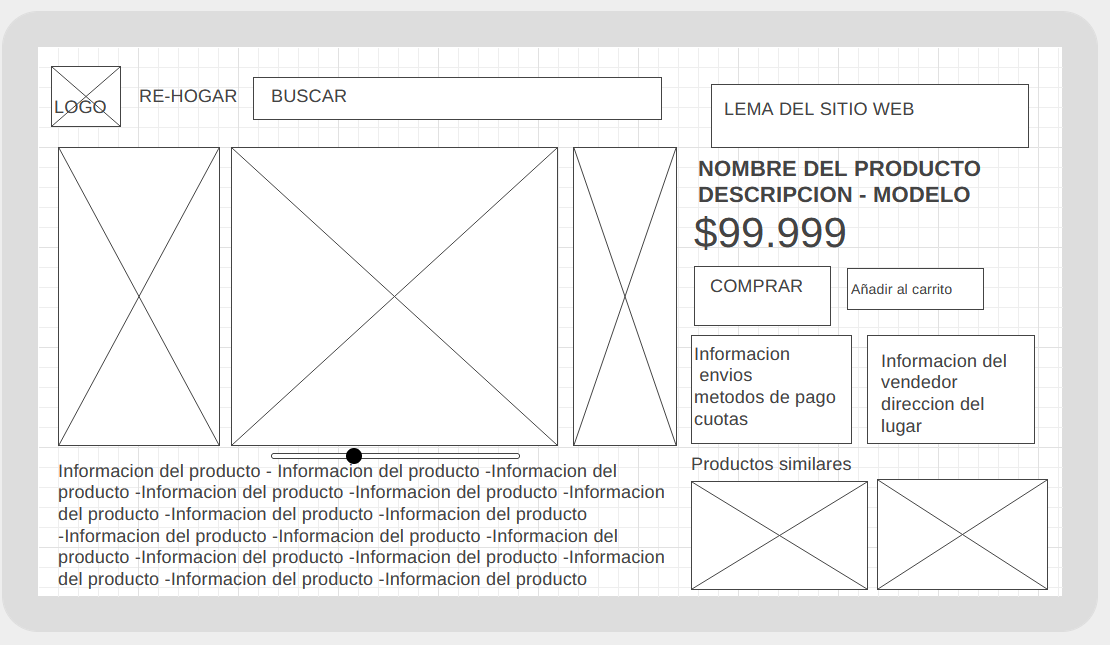
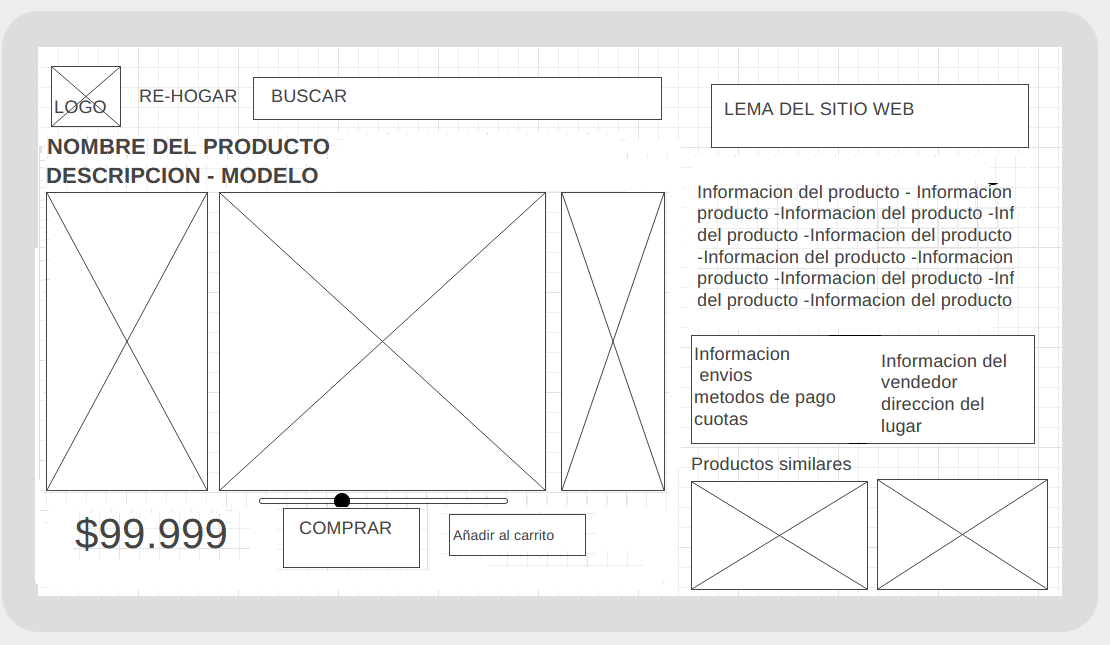
Subo todos los cambios en productDetail html y css faltan realizar cambios

diff --git a/views/productDetail.html b/views/productDetail.html
@@ -1,5 +1,6 @@
 <!DOCTYPE html>
 <html lang="en">
+
 <head>
     <meta charset="UTF-8">
     <meta name="viewport" content="width=device-width, initial-scale=1.0">
@@ -8,9 +9,75 @@
     <script src="https://kit.fontawesome.com/e3720ac348.js" crossorigin="anonymous"></script>
 </head>
 
-<body>
-    <main>
-        
+<body class="product_detail_body">
+    <header>
+        <div class="test_header">
+            <img src="/img/logo_rehogar.png">
+            TEST DE HEADER
+        </div>
+    </header>
+    <main class="productDetail_main">
+        <div class="product">
+            <div class="product_name_model">
+                <h1>Nombre del producto</h1>
+                <h2>Modelo</h2>
+            </div>
+            <div class="product_carrousel_box">
+                <div class="product_carrousel_img">
+                    <img src="/img/productDetail_img/img_product_1.jpg">
+                </div>
+                <div class="product_carrousel_img">
+                    <img src="/img/productDetail_img/img_product_2.jpg">
+                </div>
+                <div class="product_carrousel_img">
+                    <img src="/img/productDetail_img/img_product_3.jpg">
+                </div>
+            </div>
+            <div class="product_precio_buttons_box">
+                <div class="product_precio">
+                    <h1>$99.999</h1>
+                </div>
+                <div class="product_buttons">
+                    <a href="/"><input type="button" value="Comprar"></a>
+                    <a href="/"><input type="button" value="Enviar"></a>
+                </div>
+            </div>
+            <div class="box_flex">
+                <div class="box1">
+                    <div class="product_description">
+                        <p>
+                            Lorem ipsum dolor sit amet consectetur adipisicing elit. Eius fugiat quae similique odit eos
+                            architecto saepe officia? Facilis amet quae, id fuga itaque alias nulla natus in sit
+                            aspernatur
+                            veritatis!
+                        </p>
+                    </div>
+                    <div class="product_simil">
+                        <h2>Productos similares</h2>
+                        <div class="product_simil_box">
+                            <div>
+                                <img src="/img/productDetail_img/img_relation_1.jpg">
+                            </div>
+                            <div>
+                                <img src="/img/productDetail_img/img_relation_2.jpg">
+                            </div>
+
+                        </div>
+                    </div>
+                </div>
+                <div class="vendedor_info">
+                    <i class="fa-solid fa-truck"></i>
+                    <p>Información de envios </p>
+                    <i class="fa-solid fa-credit-card"></i>
+                    <p>Metodos de pago </p>
+                    <i class="fa-solid fa-id-card"></i>
+                    <p>Información del vendedor </p>
+                    <i class="fa-solid fa-location-dot"></i>
+                    <p>Dirección de entrega </p>
+                </div>
+            </div>
+
+        </div>
     </main>
 </body>
 

diff --git a/public/css/productDetail.css b/public/css/productDetail.css
@@ -1,3 +1,98 @@
-*{
-    
+/*borrar*/
+.test_header{
+    height: 100px;
+}
+.test_header img{
+    height: 100%;
+}
+/*Ahora si*/
+
+/*Textos*/
+.productDetail_main h1, .productDetail_main h2{
+    color: var(--GrisOscuro);
+}
+/*Fondo*/
+.product_detail_body{
+    background-color: var(--colorIseo);
+}
+/*Titulos*/
+.productDetail_main{
+    width: 95vw;
+    margin: auto;
+}
+.product_name_model{
+    margin: 0;
+    padding: 5px;  
+    font-size: 20px;
+}
+/*Carrousel*/
+.product_carrousel_box{
+    width: 100%;
+    display: flex;
+    flex-direction: row;
+    padding-bottom: 15px;
+}
+.product_carrousel_img{
+    width: 33%;
+}
+.product_carrousel_img img{
+    width: 100%;
+}
+.product_carrousel_img:hover{
+    width: 66%;
+}
+
+/*Botones*/
+.product_precio_buttons_box{
+    display: flex;
+    flex-direction: row;
+    justify-content: space-between;
+    padding-bottom: 15px;
+}
+.product_buttons{
+    width: 100%;
+    text-align: right;
+}
+.product_precio_buttons_box div input{
+    width: 40%;
+    border: 0;
+    outline: none;
+    color: var(--colorViñaDelMar);
+    padding-bottom: 5px;
+    font-size: 18px;
+}
+.product_buttons a input{
+    border-radius: 5px;
+    background-color: var(--colorSanAndres);
+    color: white;
+    padding: 8px;
+    text-decoration: none;
+}
+/*Productos similares*/
+.box_flex{
+    display: flex;
+    flex-direction: row;
+    justify-content: space-between;
+}
+.vendedor_info{
+    text-align: center;
+    width: 40vw;
+}
+.box1{
+    width: 50vw;
+}
+.product_description{
+    width: 100%;
+}
+.product_simil_box{
+    width: 100%;
+    display: flex;
+    flex-direction: row;
+    gap: 5px;
+}
+.product_simil_box div{
+    width: 49%;
+}
+.product_simil_box img{
+    width: 100%;
 }

diff --git a/public/css/general.css b/public/css/general.css
@@ -1,6 +1,29 @@
-:root{
-    --colorSopot:#A87564;
+:root {
+    --colorSopot: #A87564;
     --colorViñaDelMar: #AEB4B2;
+    --GrisClaro: #ebebeb;
+    --GrisOscuro: #666;
     --colorSanAndres: #3A3F43;
     --colorIseo: #B28F59;
+}
+* {
+    margin: 0;
+    padding: 0;
+    box-sizing: border-box;
+}
+body {
+    width: 100vw;
+}
+
+a {
+    text-decoration: none;
+    color: #ffff;
+}
+
+li {
+    list-style: none;
+}
+
+ul {
+    padding: 0;
 }

diff --git a/public/css/styles.css b/public/css/styles.css
@@ -1,3 +1,4 @@
 @import './general.css';
 @import './home.css';
 @import './header.css';
+@import './productDetail.css'

diff --git a/public/css/header.css b/public/css/header.css
@@ -1,0 +1,3 @@
+header{
+    background-color: var(--colorSopot);
+}
